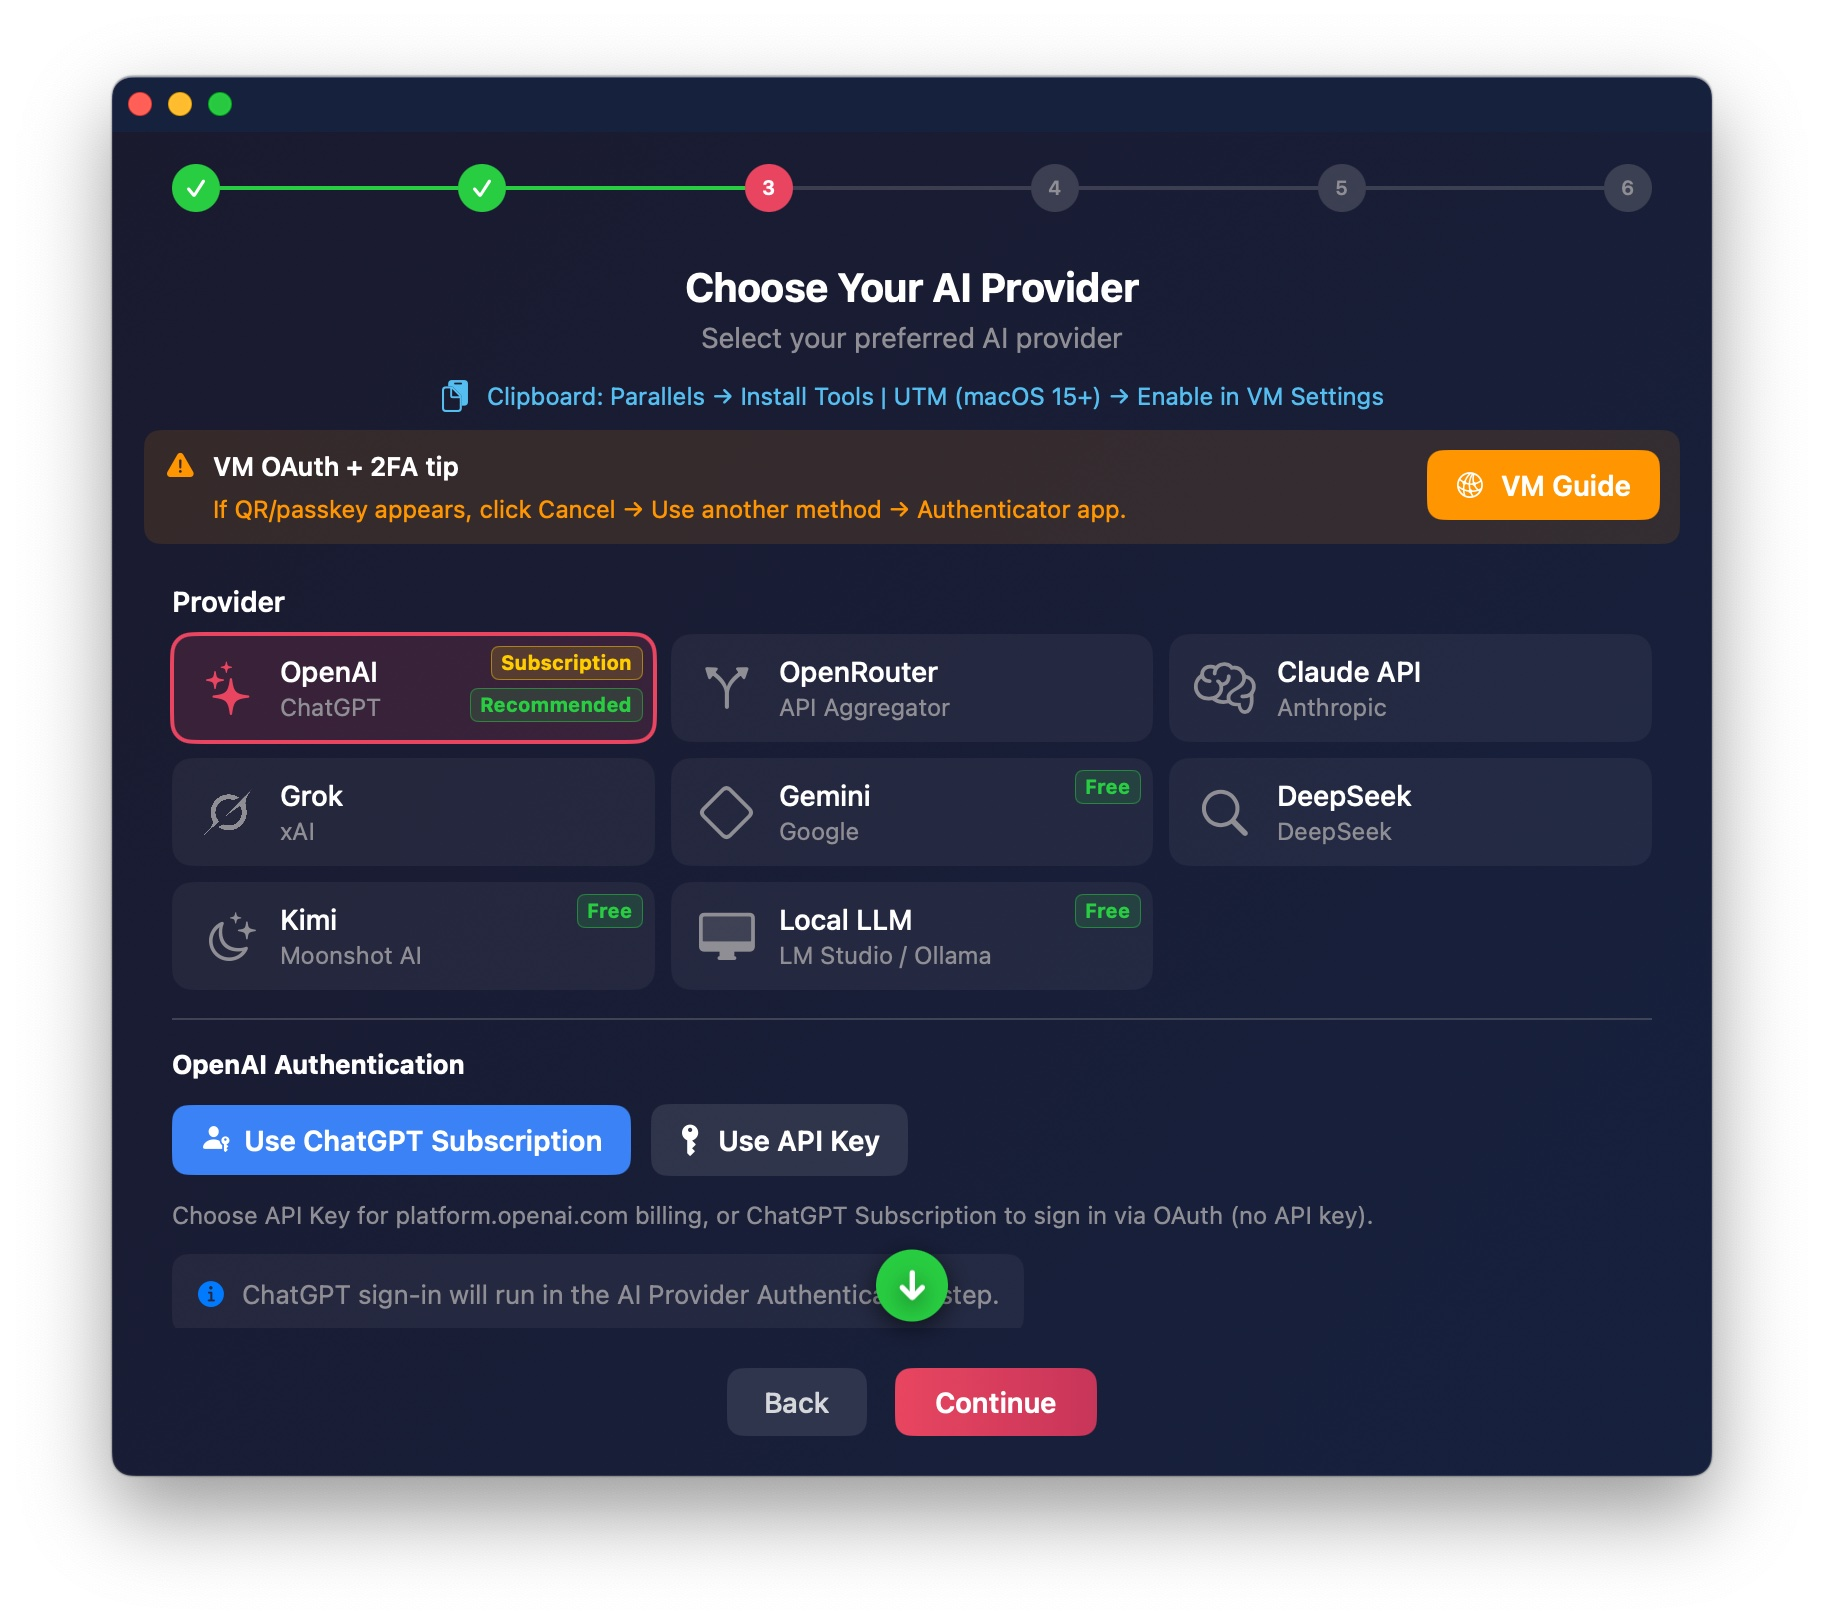
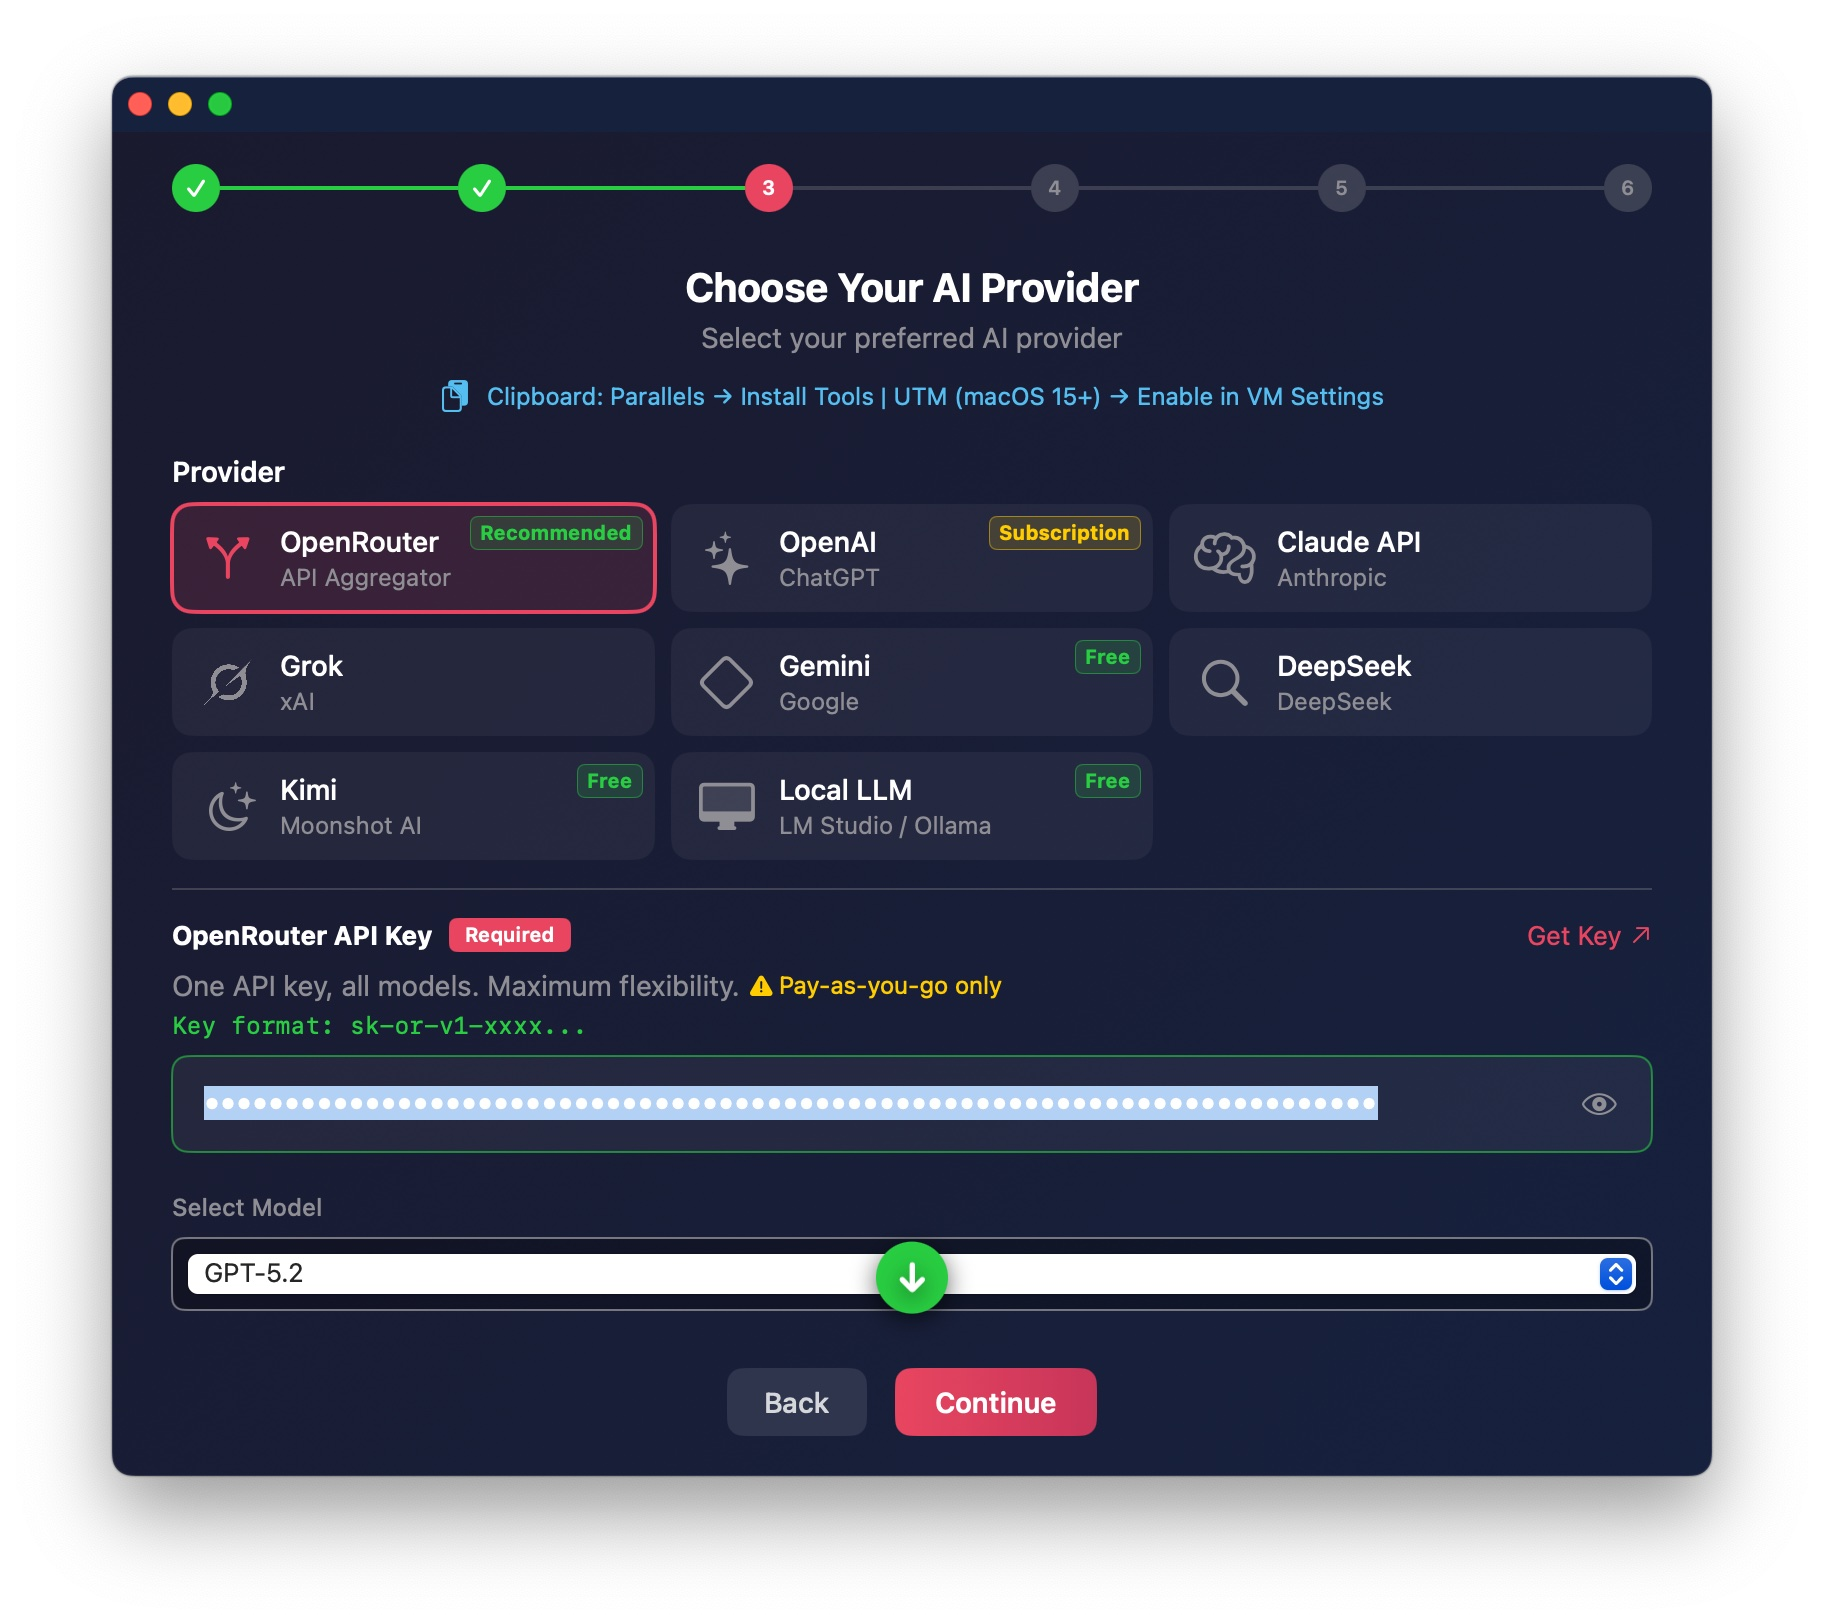
Update AI Provider screenshot — OpenRouter as #1 (Build 328)

diff --git a/features.html b/features.html
@@ -291,7 +291,7 @@
                 <li><strong>Free options</strong> — Gemini, Kimi, and Local LLM require no payment</li>
                 <li><strong>Local LLM</strong> — run models entirely offline via LM Studio or Ollama</li>
             </ul>
-            <img src="screenshots/ai-provider.jpg?v=327" alt="KatClaw AI provider selection with 8 providers" class="screenshot-img" width="912" height="811">
+            <img src="screenshots/ai-provider.jpg?v=328" alt="KatClaw AI provider selection with 8 providers" class="screenshot-img" width="912" height="811">
             <p class="screenshot-caption">Provider configuration — choose and switch providers with built-in setup guides</p>
         </div>
         

diff --git a/installation-guide.html b/installation-guide.html
@@ -394,7 +394,7 @@
             <div class="tip">
                 <p>💡 Not sure which to pick? <a href="/ai-providers">Compare providers and costs →</a></p>
             </div>
-            <img class="screenshot" src="images/install-guide/AI-Provider.jpg?v=327" width="912" height="812" alt="AI Provider">
+            <img class="screenshot" src="images/install-guide/AI-Provider.jpg?v=328" width="912" height="812" alt="AI Provider">
         </div>
         
         <!-- Step 7 -->
